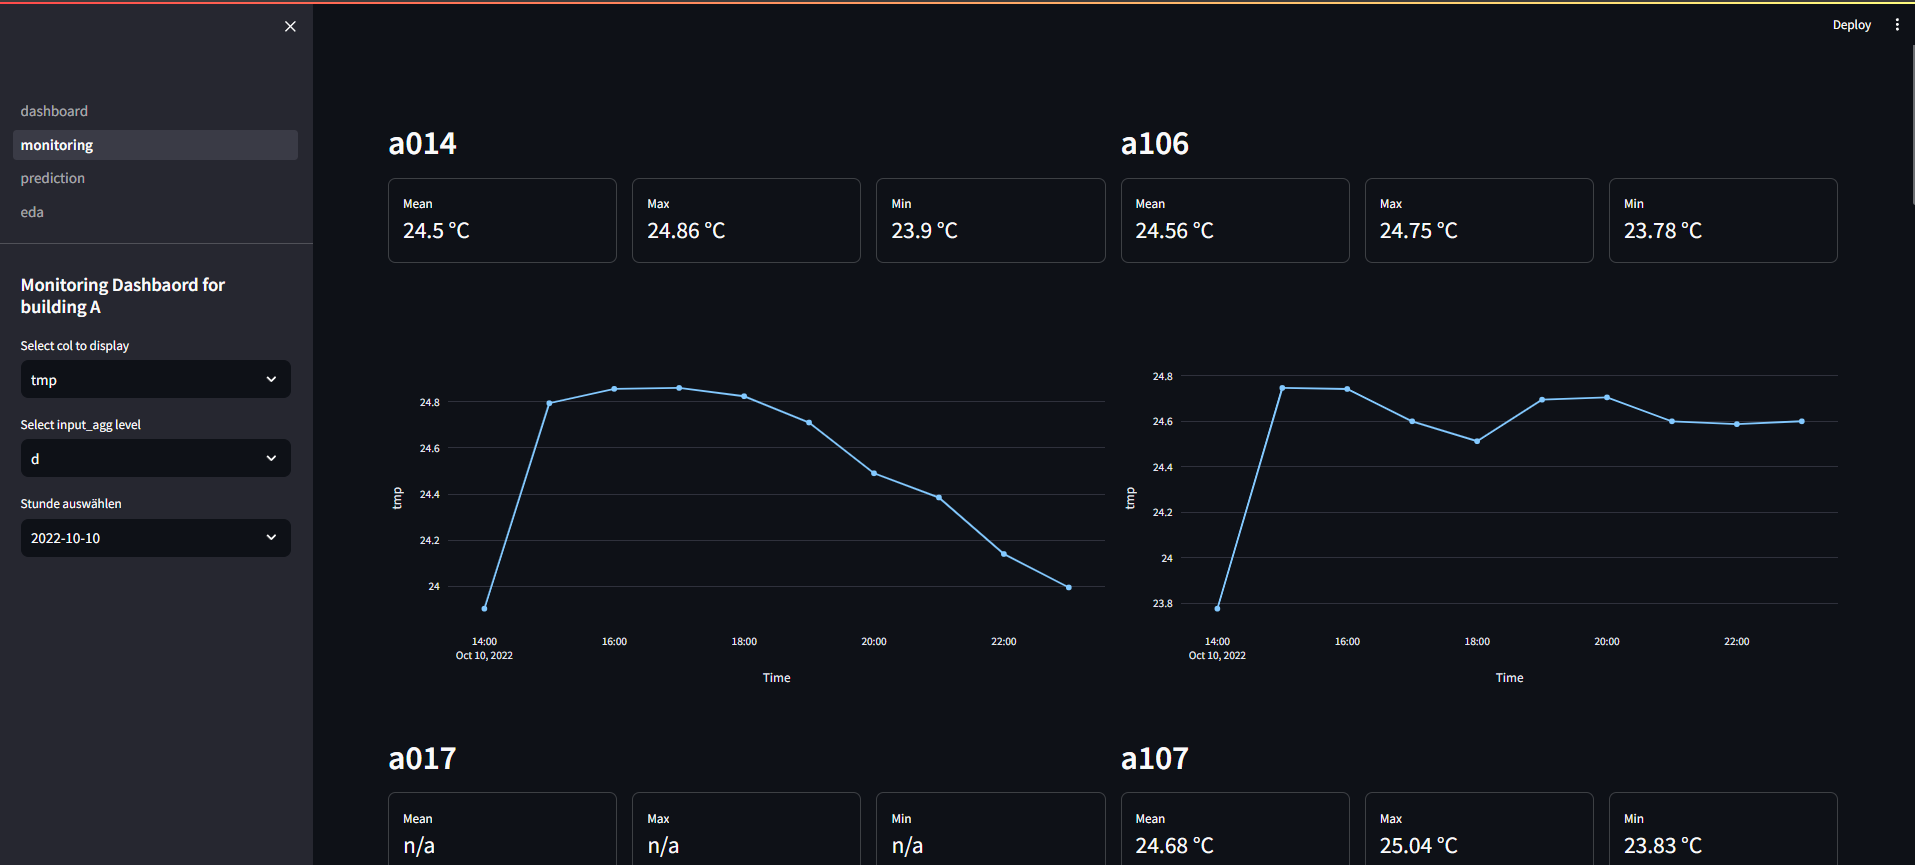
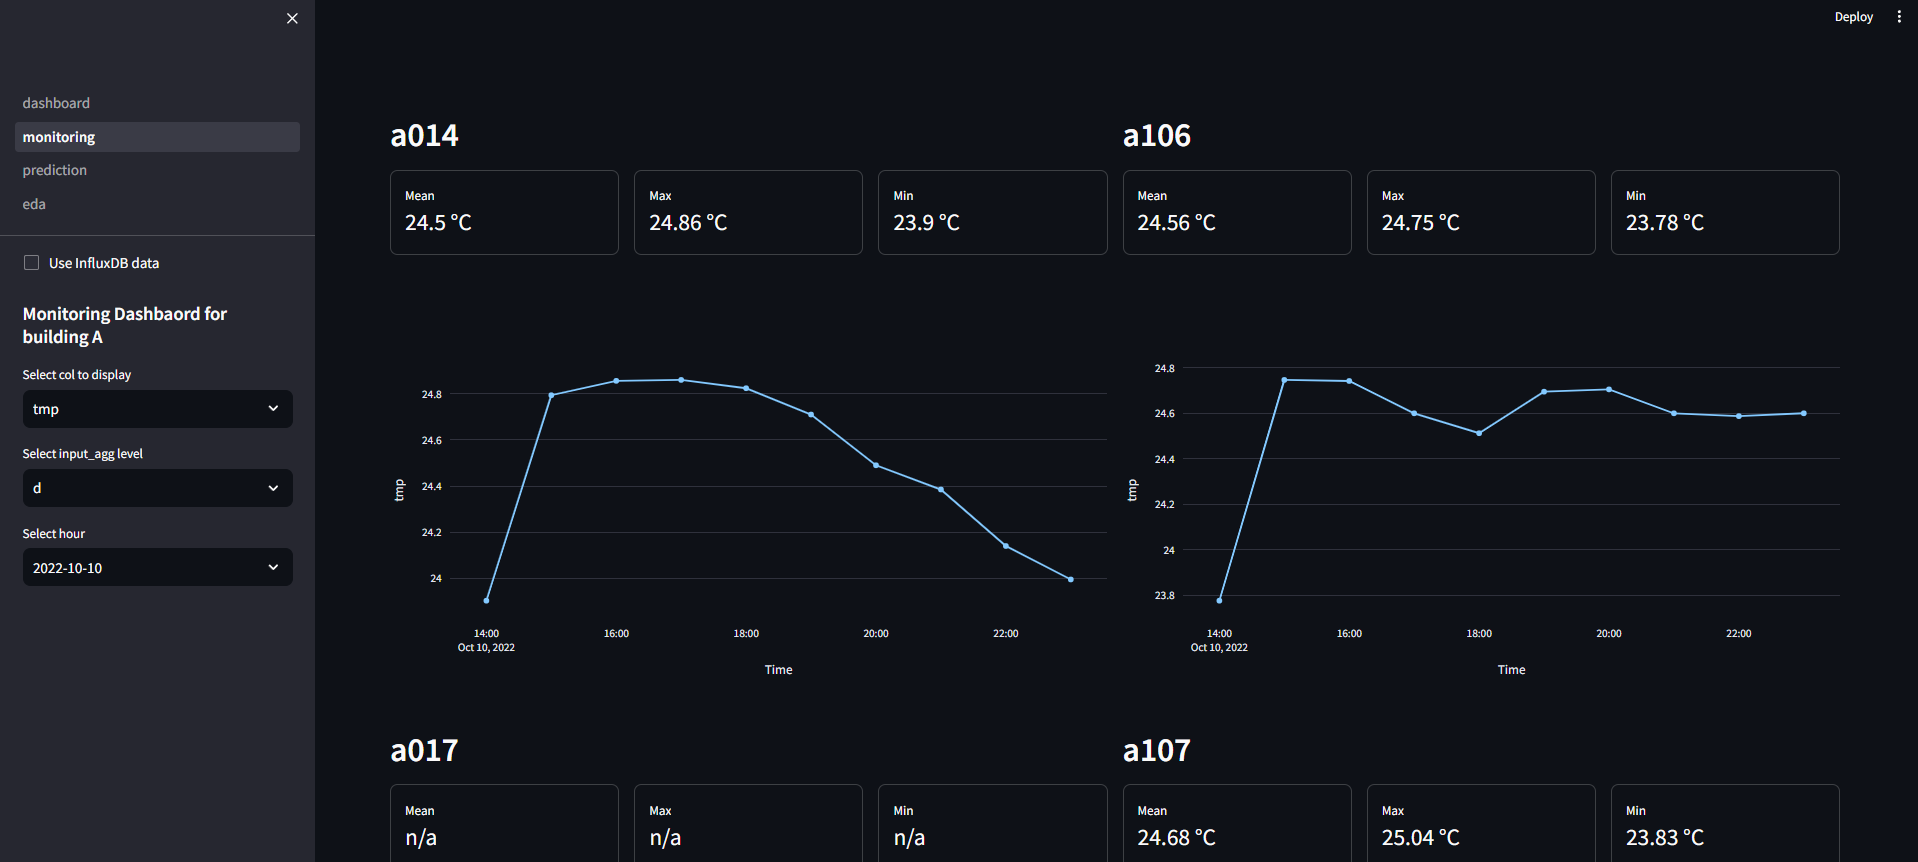
updating readme and scrrenshots

diff --git a/README.md b/README.md
@@ -28,6 +28,10 @@ Starting the dashboard:
 
 streamlit run ./main/dashboard.py
 
+Using the InfluxDB:
+
+To be able to use the data from the influxdb you need to edit the credentials.json with the specific api token and write the path to this file into the variable FILEPATH_INFLUXDB_CREDENTIALS in prediction.py
+
 Known Problems:
 
 * The pyvista roomplot doesnt work on mac
